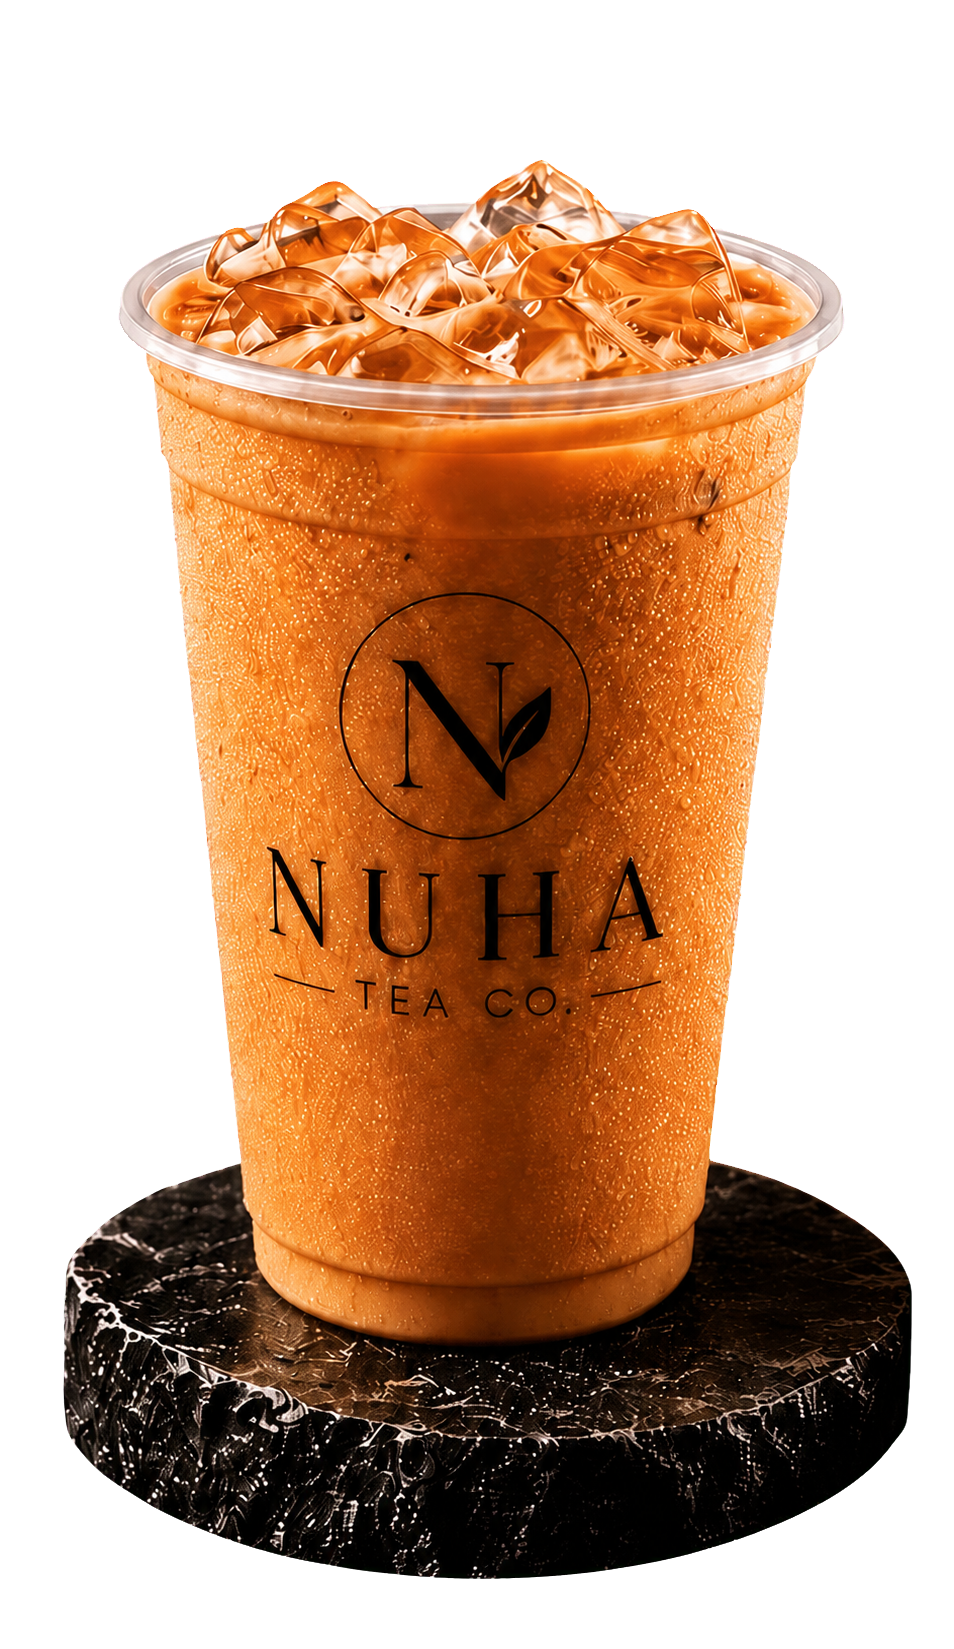
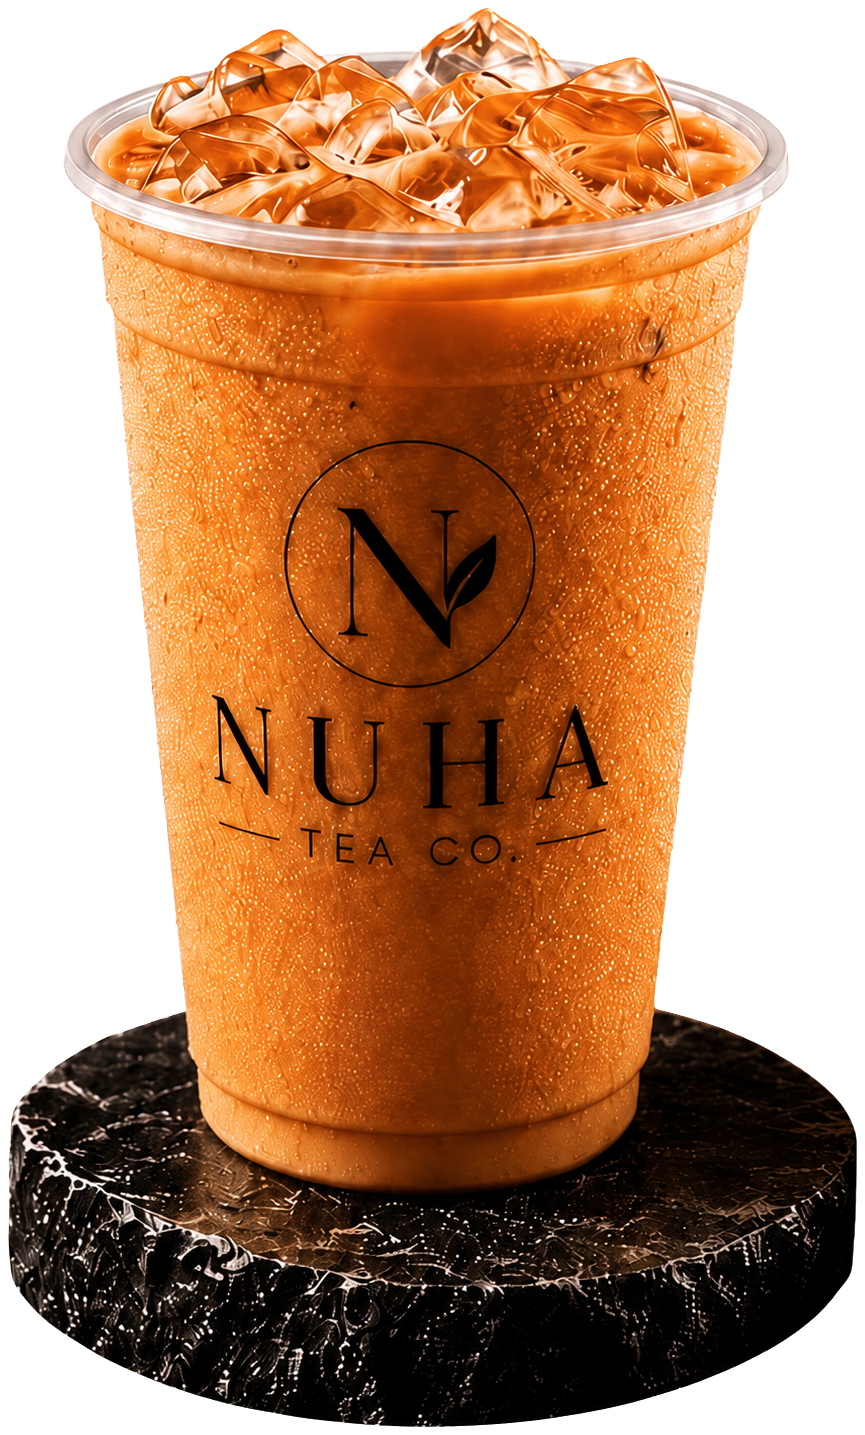
Fix full Nuha hero image fit

diff --git a/nuha-tea.html b/nuha-tea.html
@@ -97,12 +97,12 @@
     .proof { display: flex; gap: 25px; margin-top: 32px; }
     .proof-item { max-width: 105px; color: #bbb2a8; font-size: .7rem; line-height: 1.4; text-transform: uppercase; }
     .proof-icon { display: block; margin-bottom: 8px; color: var(--gold); font-size: 1.4rem; }
-    .hero-visual { position: relative; min-height: 590px; }
+    .hero-visual { position: relative; height: clamp(460px, 70vh, 590px); min-height: 0; display: grid; place-items: center; }
     .hero-photo {
-      position: absolute; inset: 0; display: grid; place-items: center; overflow: hidden;
+      position: relative; width: 100%; height: 100%; display: grid; place-items: center; overflow: visible;
       padding: clamp(8px, 1.5vw, 20px); background: transparent;
     }
-    .hero-photo img { width: 100%; height: 100%; object-fit: contain; filter: drop-shadow(0 32px 34px rgba(0,0,0,.52)); }
+    .hero-photo img { width: auto; height: 100%; max-width: 100%; max-height: 100%; object-fit: contain; filter: drop-shadow(0 32px 34px rgba(0,0,0,.52)); }
 
     .ticker { overflow: hidden; border-block: 1px solid var(--line); color: var(--gold-light); background: #0b0b0b; }
     .ticker-track { display: flex; width: max-content; animation: ticker 24s linear infinite; }
@@ -216,7 +216,7 @@
       .nav-links.open { display: flex; }
       .hero-grid, .signature-grid, .kenduri-grid, .order-grid { grid-template-columns: 1fr; }
       .hero-grid { gap: 50px; }
-      .hero-visual { width: min(650px, 100%); min-height: 560px; margin: 0 auto; }
+      .hero-visual { width: min(650px, 100%); height: 540px; min-height: 0; margin: 0 auto; }
       .package-grid { grid-template-columns: 1fr 1fr; }
       .about-grid { gap: 50px; }
     }
@@ -227,7 +227,7 @@
       .hero h1 { font-size: clamp(3.7rem, 18vw, 5rem); }
       .hero-actions .button { width: 100%; }
       .proof { justify-content: space-between; gap: 10px; }
-      .hero-visual { min-height: 460px; }
+      .hero-visual { height: 440px; min-height: 0; }
       .hero-photo { padding: 10px; }
       .signature-image, .kenduri-image { height: 470px; }
       .drink-figure { padding-top: 44px; }
